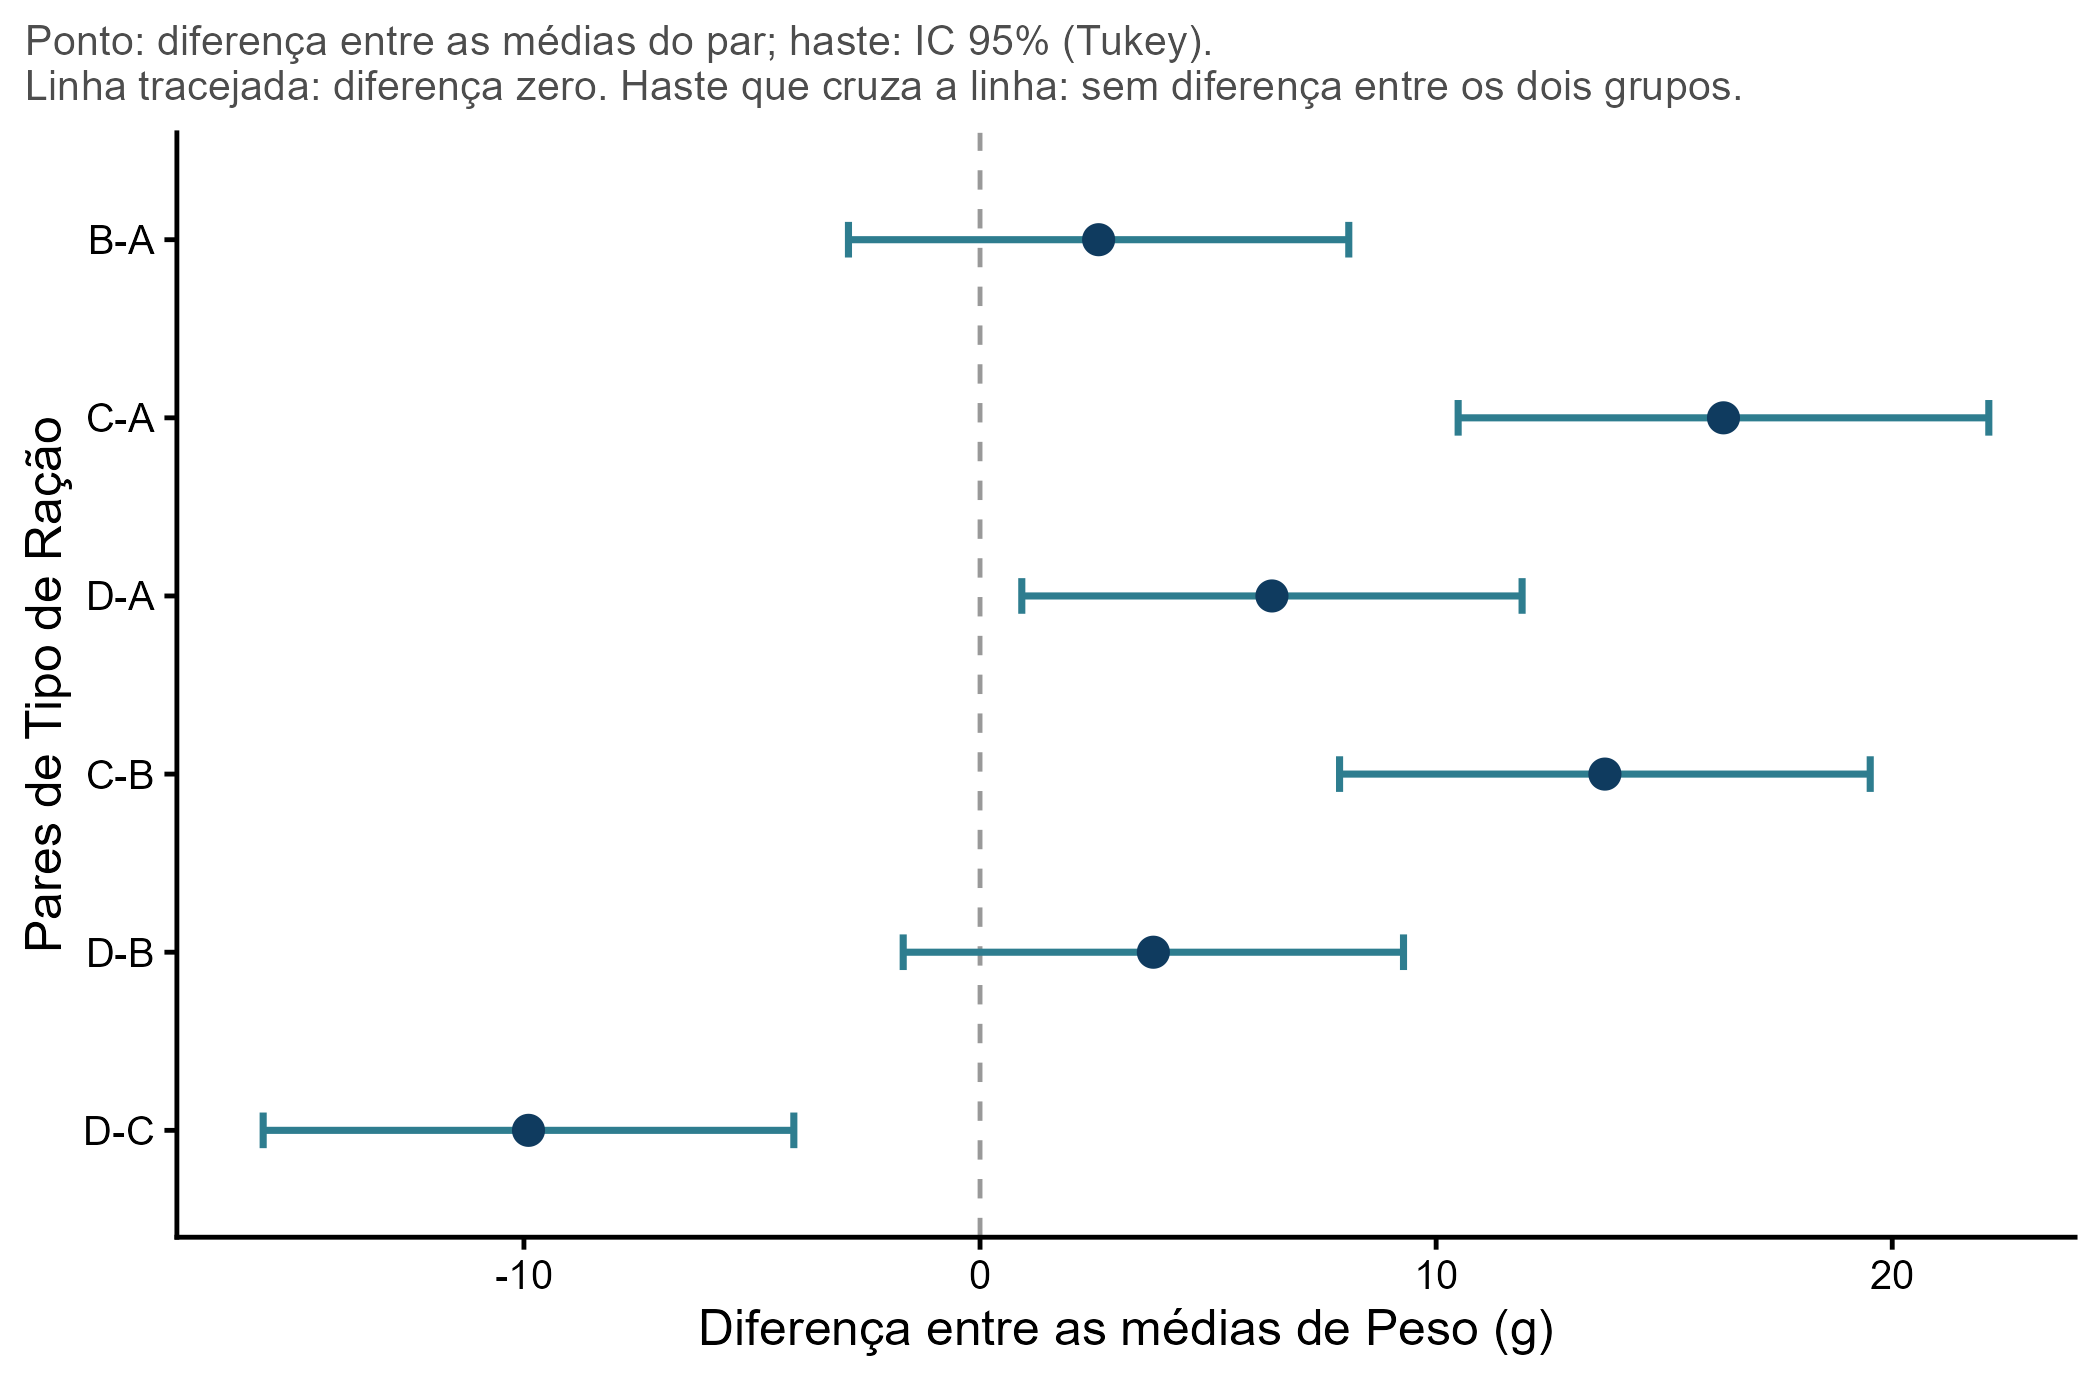
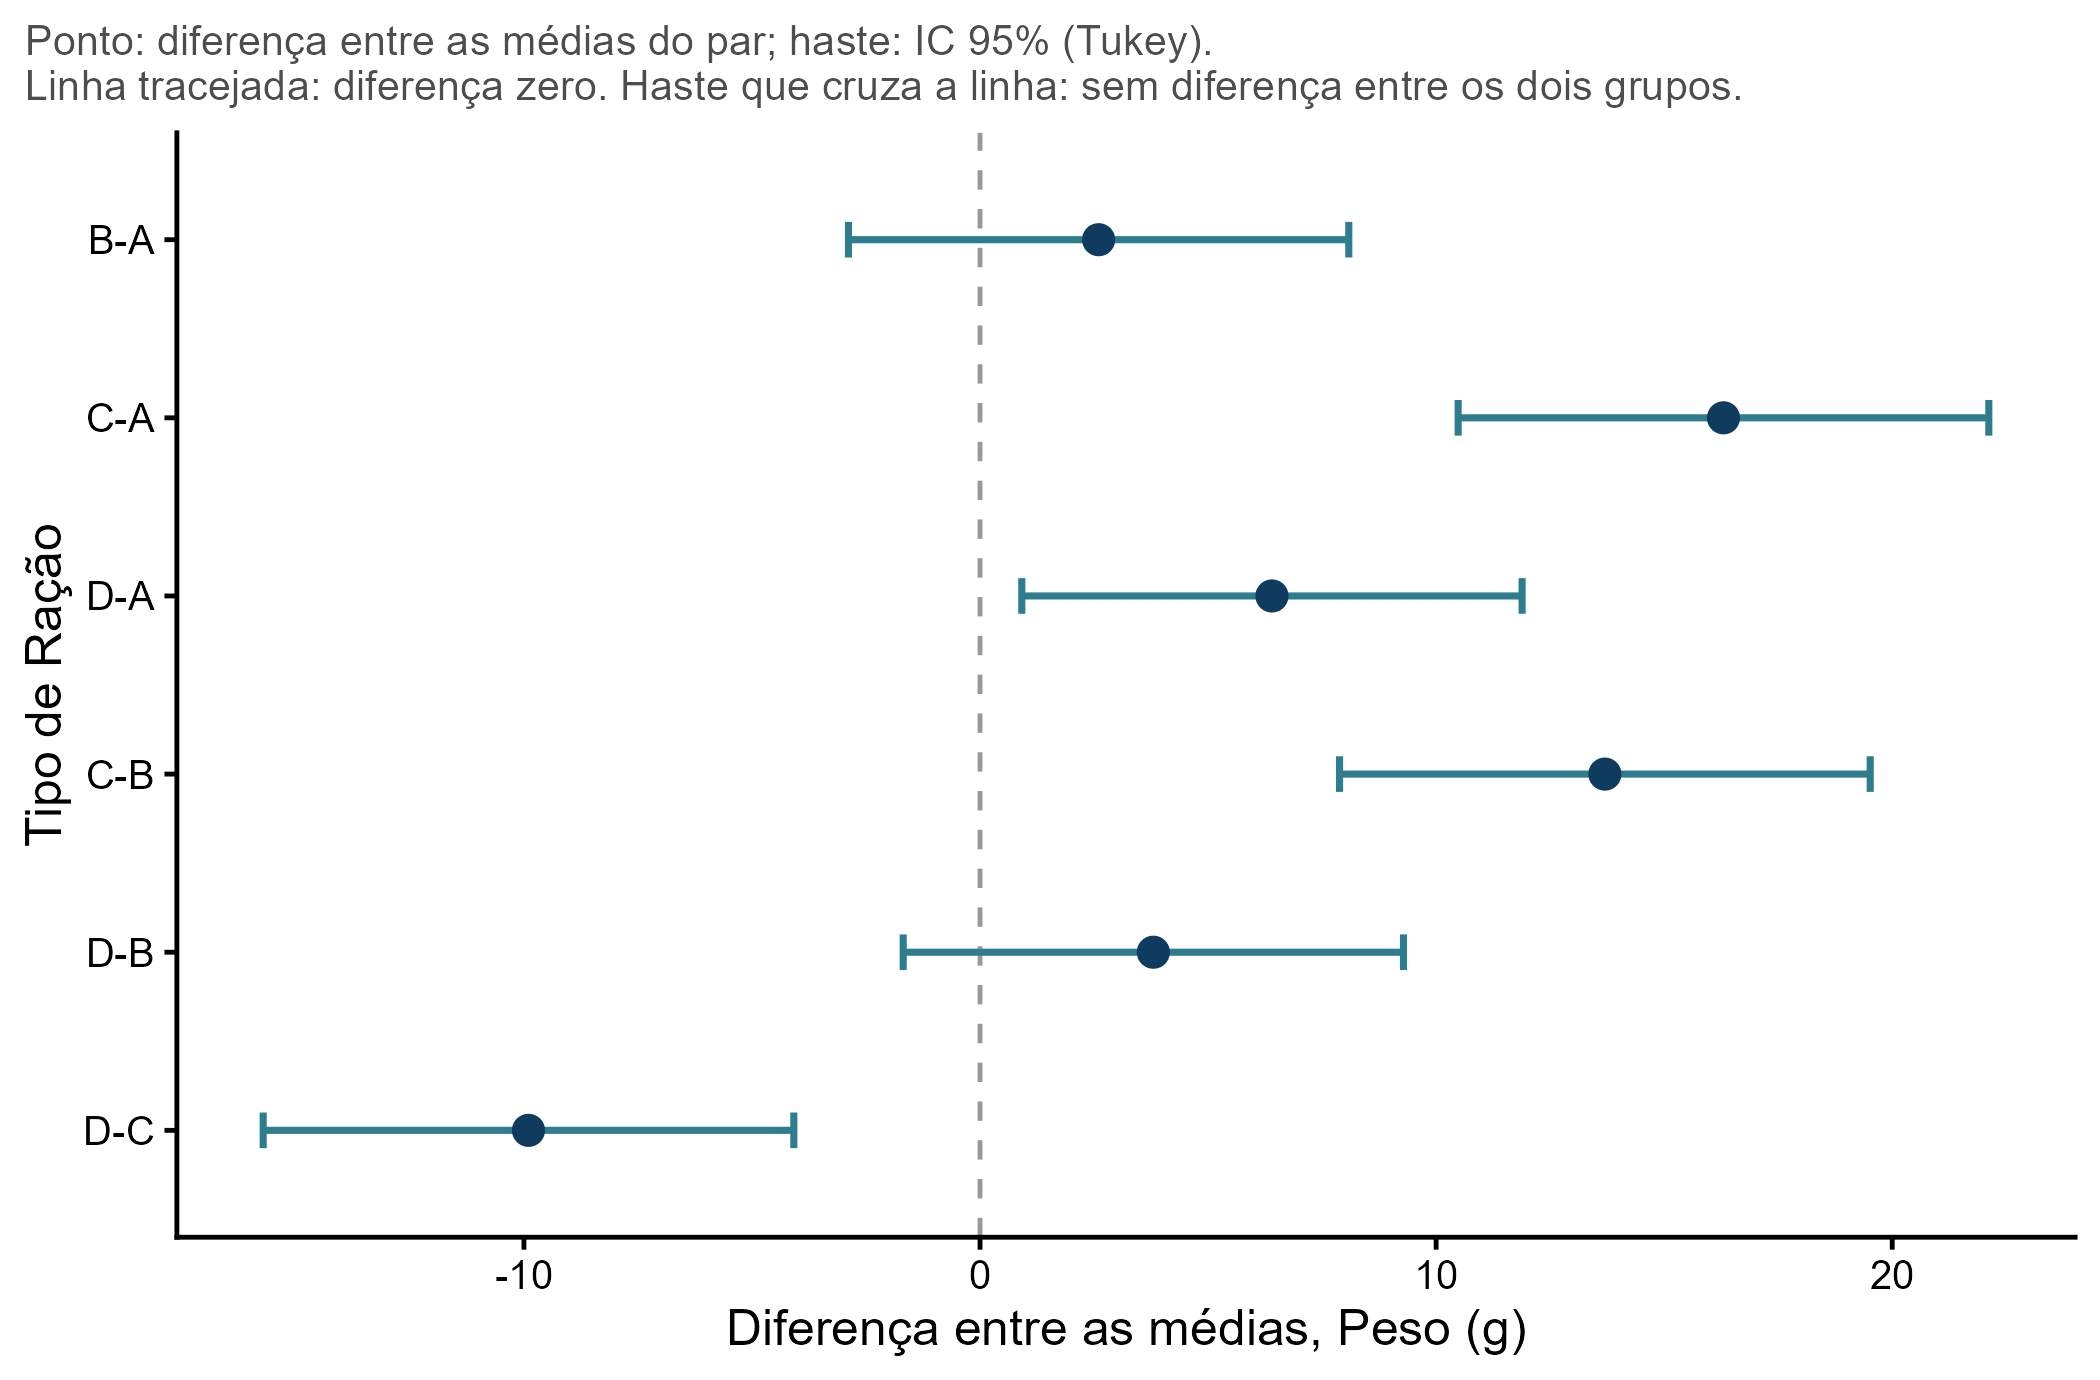
ClaRa v0.7: o resultado carrega os rótulos e a gramática da ClaRa
- comparar_medias() e comparar_medianas() recebem rotulo_resposta e
  rotulo_grupos; gráficos, textos e o relatório no console usam os
  rótulos guardados no resultado, sem o aluno repeti-los.
- README: a gramática da ClaRa (substantivos, verbos de pergunta, verbos
  sobre o resultado, modificadores e três regras).
- Roteiros: um modificador por linha; a chamada da análise e a figura
  principal com todos os argumentos escritos, as opções ao lado.
- grafico_pares(): eixos com o rótulo do aluno, sem "Pares de".
- CLAUDE.md: comparar com um controle (Dunnett e Dunn, letras) aprovado
  para a próxima etapa; escolhas escritas no exportador.

Changed region(s): [[0.3405, 0.9348, 0.7429, 0.9971], [0.0, 0.3116, 0.031, 0.6855]]

diff --git a/CLAUDE.md b/CLAUDE.md
@@ -37,7 +37,8 @@ ClaRa/
     preparar_dados_treino.R     gera todos os CSVs desta pasta
     real_*.rds / real_*.csv     dados reais, exportados do pacote EAPADados
     sint_*.rds / sint_*.csv     dados sintéticos, cada um com uma situação
-  README.md                     a ClaRa para quem abre o repositório (mapa das perguntas)
+  README.md                     a ClaRa para quem abre o repositório (mapa das
+                                perguntas e a gramática da ClaRa)
   docs/                         histórico e ideias, nunca código
     concepcao_inicial_2026-09.md  primeira concepção da ClaRa (ver abaixo)
   .claude/skills/clara-nova-funcao/SKILL.md
@@ -151,11 +152,14 @@ Regras que saem desse desenho:
   e temperatura). Ainda é pergunta sobre médias, com interação: pode ser
   `comparar_medias(grupos = c(racao, temperatura))` ou um verbo próprio.
 
-## Como o aluno usa (v0.3)
+## Como o aluno usa (v0.7)
 
 ```r
 resultado <- plantas |>
-  comparar_medias(resposta = peso, grupos = tratamento)
+  comparar_medias(resposta        = peso,
+                  grupos          = tratamento,
+                  rotulo_resposta = "Peso seco (g)",
+                  rotulo_grupos   = "Tratamento")
 
 resultado                       # imprime um pequeno relatório no console
 
@@ -163,12 +167,10 @@ resultado |>
   medir_efeito()
 
 resultado |>
-  grafico_medias(rotulo_resposta = "Peso seco (g)",
-                 rotulo_grupos   = "Tratamento")
+  grafico_medias()              # os rótulos vêm do resultado
 
 textos <- resultado |>
-  escrever_resultados(rotulo_resposta = "Peso seco (g)",
-                      rotulo_grupos   = "Tratamento")
+  escrever_resultados()
 textos$teste                    # no Quarto: `r textos$teste`
 
 resultado |>
@@ -181,6 +183,38 @@ resultado |>
 resultado |>
   grafico_qq()                  # Q-Q dos resíduos
 ```
+
+**O resultado carrega o contexto** (v0.7, outubro de 2026): `rotulo_resposta`
+e `rotulo_grupos` são informados uma vez, no verbo de pergunta
+(`comparar_medias()`, `comparar_medianas()`), e ficam em
+`resultado$nomes$rotulo_resposta` e `$rotulo_grupos` (sem eles, o nome da
+coluna). Gráficos e `escrever_resultados()` usam esses rótulos quando o
+aluno não informa outros; um rótulo dado no gráfico vale só para ele. O
+título do `print` também usa os rótulos. As linhas do roteiro passam a
+depender umas das outras, como num programa.
+
+**A gramática da ClaRa** está no README: substantivos (a base, o
+resultado), verbos de pergunta, verbos sobre o resultado e modificadores
+(argumentos), ligados por três regras (frase começa por substantivo e segue
+pelo pipe; o resultado lembra a análise; o mesmo verbo serve a qualquer
+análise). Uma função nova da ClaRa deve caber nessa gramática.
+
+**Um modificador por linha**, com `=` alinhado, mesmo que o roteiro fique
+mais longo (preferência do professor, outubro de 2026). Escolhas que
+importam para a conclusão aparecem escritas mesmo quando são o padrão
+(`variancias_iguais = FALSE`), para o roteiro registrar a decisão. Fora das
+análises (ler, preparar, repetir), o roteiro volta ao R comum, com código
+fácil de ler: a ClaRa é de altíssimo nível e não substitui o R.
+
+**O que vai para o artigo leva mais detalhe** (decisão do professor,
+outubro de 2026). Nos roteiros, duas chamadas são as mais longas: a do
+verbo de pergunta, porque o resultado alimenta tudo o que vem depois
+(tabelas, poder, gráficos), e a da figura principal, porque ela vai para o
+artigo. Nelas, todos os argumentos aparecem escritos, inclusive os padrões
+(`confianca = 0.95`, `haste = "ic"`, `cores = "ocean"`...), com as opções
+num comentário ao lado (`# "ic", "ep" ou "dp"`). Vale para toda tabela ou
+figura principal de publicação. Os gráficos de conferência (boxplot,
+resíduos, Q-Q, pares) e os textos ficam curtos: `resultado |> grafico_qq()`.
 
 `grafico_residuos()` e `grafico_qq()` têm poucos parâmetros (só
 `rotulo_grupos`, no de resíduos) e deixam o ggplot2 à vista em
@@ -227,7 +261,10 @@ Cada gráfico das médias tem a sua receita: `trechos_grafico_medias`,
 `paletas_clara` (`ocean`, `cinza`); `trecho_de_cores()` escreve o trecho de
 cores da receita para qualquer vetor, e o objeto na receita se chama `cores`. `grafico_pares()` usa
 `resultado$pares` (Tukey) na ANOVA e `resultado$teste` no teste t; o título
-explica o ponto, a haste e a linha tracejada da diferença zero. Com muitos
+explica o ponto, a haste e a linha tracejada da diferença zero. Os eixos
+usam o rótulo do aluno sem preposição grudada ("Tipo de Ração";
+"Diferença entre as médias, Peso (g)"): os marcadores B-A já dizem que
+cada linha é um par. Com muitos
 grupos (10 grupos = 45 pares), salve a figura mais alta. O boxplot já
 serve às medianas (só usa `$dados`); os pares ainda não (ver "Em espera").
 
@@ -525,8 +562,17 @@ abaixo no analise.R; o R aparece apenas sob demanda, com `mostrar_codigo = TRUE`
 - poder para as medianas (`$poder` sai vazio);
 - o alerta de `escrever_resultados()` nas médias poderia citar
   `comparar_medianas()` pelo nome, agora que ela existe;
-- `rotulo_resposta` e `rotulo_grupos` informados uma vez só, em
-  `comparar_medias()`, em vez de repetidos no gráfico e nos textos;
+- comparar com um controle (aprovado em outubro de 2026, a implementar):
+  dois argumentos em `comparar_medias()` e `comparar_medianas()`,
+  `comparacao = c("todos_os_pares", "contra_controle")` e `controle = "A"`.
+  Médias: Tukey ou Dunnett (`multcomp`, CRAN: `glht(mcp(... = "Dunnett"))`);
+  medianas: Dunn em todos os pares ou só contra o controle (Holm sobre
+  k - 1 comparações). Letras, não asterisco: o controle leva "a"; quem não
+  difere dele, "a"; quem difere, "b". `$pares` com k - 1 linhas;
+  `grafico_pares()` só com as diferenças contra o controle;
+  `escrever_resultados()` diz "a ração B diferiu do controle (A)". Com dois
+  grupos, `comparacao` não muda o teste e `controle` define o sentido da
+  diferença (tratamento menos controle);
 - próximas análises: `relacionar_variaveis()` (regressão) e
   `comparar_proporcoes()`.
 
@@ -546,6 +592,15 @@ abaixo no analise.R; o R aparece apenas sob demanda, com `mostrar_codigo = TRUE`
   toda coberta: `exemplos/anova_bagres.R` não tem mais blocos "Ainda sem
   ClaRa" (462 linhas de código no original, 42 em ClaRa). Os QMDs precisarão ler
   `resultado$...` e `textos$...` no lugar dos objetos soltos atuais.
+- **No exportador, as escolhas aparecem escritas**: os argumentos da
+  chamada são o registro do que o aluno escolheu nos menus da CatalyseR
+  (`comparacao = "contra_controle"`, `controle = "A"`), e as escolhas
+  principais vão escritas mesmo quando são o padrão
+  (`comparacao = "todos_os_pares"`, `variancias_iguais = FALSE`).
+- Com `all.equal()` no lugar do `catalyser_conferir_base()` e a base lida do
+  `.rds`, o analise.R exportado não precisa mais dos blocos que conferem a
+  instalação do catalyser e do EAPADados (observação do professor, outubro
+  de 2026). A mudança é no exportador da CatalyseR, não aqui.
 - **Na migração, a conferência da base usa `all.equal()`** (aprovado pelo
   professor em outubro de 2026). O analise.R exportado lê a base pronta
   (`readRDS("dados/processados/base_compartilhada.rds")`), mostra em dplyr a

diff --git a/README.md b/README.md
@@ -9,7 +9,10 @@ tidyverse, e esse código aparece quando você pede.
 source("R/clara.R", encoding = "UTF-8")
 
 resultado <- peixes |>
-  comparar_medias(resposta = peso_g, grupos = racao)
+  comparar_medias(resposta        = peso_g,
+                  grupos          = racao,
+                  rotulo_resposta = "Peso (g)",
+                  rotulo_grupos   = "Ração")
 
 resultado                                  # um pequeno relatório no console
 resultado |> medir_efeito()                # a diferença é grande ou pequena?
@@ -47,6 +50,45 @@ Uma análise nova não cria funções novas em "Para qualquer análise": ela só
 ensina a `medir_efeito()`, a `escrever_resultados()`, a `grafico_residuos()`
 e a `grafico_qq()` a falar dela. Por isso a
 lista de funções continua curta, mesmo com muitas análises.
+
+## A gramática da ClaRa
+
+A ClaRa tem poucas classes de palavras, e elas se combinam sempre do mesmo
+jeito. Quem aprende a frase de uma análise já sabe escrever a das outras.
+
+| Classe | O que é | Exemplos |
+|---|---|---|
+| **Substantivos** | o que existe no roteiro: a base de dados e o resultado de uma análise | `bagres`, `resultado`, `textos` |
+| **Verbos de pergunta** | fazem a análise; recebem a base e devolvem um resultado | `comparar_medias()`, `comparar_medianas()` |
+| **Verbos sobre o resultado** | recebem o resultado e devolvem uma tabela, uma figura ou frases | `medir_efeito()`, `grafico_...()`, `escrever_resultados()` |
+| **Modificadores** | os argumentos: dizem o papel de cada coluna e as escolhas da análise | `resposta`, `grupos`, `rotulo_resposta`, `variancias_iguais` |
+
+Três regras ligam as palavras:
+
+1. **Toda frase começa por um substantivo e segue pelo pipe** (`|>`): a base
+   entra num verbo de pergunta; o resultado entra num verbo sobre o
+   resultado.
+2. **O resultado lembra a análise.** O que você disse na pergunta (as
+   colunas, os rótulos, a confiança, o teste escolhido) fica guardado nele.
+   Por isso as frases seguintes são curtas: `resultado |> grafico_medias()`
+   já sabe que o eixo se chama "Peso (g)".
+3. **O mesmo verbo serve a qualquer análise.** `medir_efeito()` devolve η²
+   depois de uma ANOVA, d de Cohen depois de um teste t e ε² depois de um
+   Kruskal-Wallis. O verbo pergunta ao resultado qual análise foi feita.
+
+Um modificador muda a análise sem mudar a pergunta (`variancias_iguais =
+TRUE` troca o Welch pelo Student). Uma pergunta nova pede um verbo novo
+(medianas não são médias). Cada figura tem o seu nome: nenhum modificador
+troca uma figura por outra.
+
+Escreva um modificador por linha, com os `=` alinhados. O roteiro fica mais
+longo, mas cada escolha aparece numa linha própria e se lê sem esforço.
+Quando a escolha importa para a conclusão, escreva-a mesmo que seja o
+padrão (`variancias_iguais = FALSE`): assim o roteiro registra a decisão.
+
+Quando é preciso programar (ler arquivos, preparar a base, repetir uma
+tarefa), o roteiro volta ao R comum, com dplyr e um `for` simples. A ClaRa
+cuida das análises, não substitui o R.
 
 ## Ver o R por trás
 
